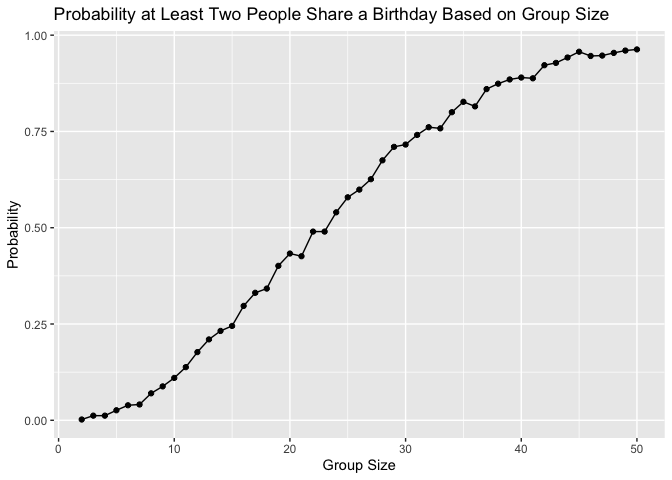
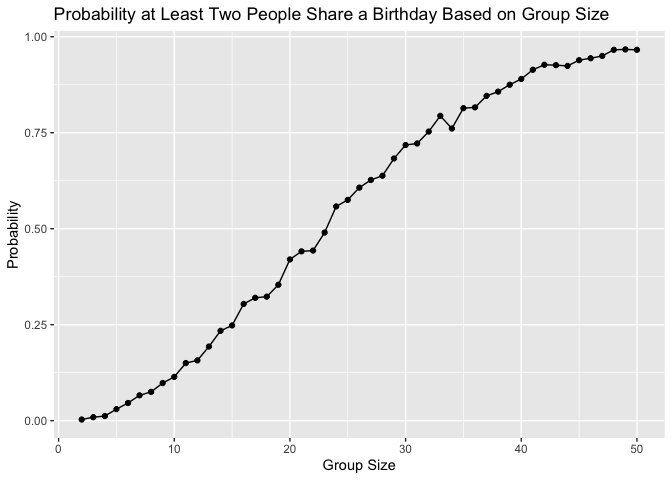
Updated q3

diff --git a/p8105_hw5_jsm2298.md b/p8105_hw5_jsm2298.md
@@ -120,3 +120,46 @@ study_df |>
 ```
 
 ![](p8105_hw5_jsm2298_files/figure-gfm/unnamed-chunk-6-1.png)<!-- -->
+
+## Problem 3
+
+### When designing an experiment or analysis, a common question is whether it is likely that a true effect will be detected – put differently, whether a false null hypothesis will be rejected. The probability that a false null hypothesis is rejected is referred to as power, and it depends on several factors, including: the sample size; the effect size; and the error variance. In this problem, you will conduct a simulation to explore power in a one-sample t-test.
+
+First set the following design elements:
+
+Fix n=30 Fix $\sigma$=5 Set $\mu$=0.
+
+Generate 5000 datasets from the model: $x \sim N(\mu, \sigma)$.
+
+For each dataset, save $\hat{\mu}$ and the p-value from a test of
+$H_0: \mu = 0$, with $\alpha = 0.05$.
+
+Repeat the above for $\mu =\{1,2,3,4,5,6\}$, and complete the following:
+
+``` r
+## Set elements:
+n = 30
+sigma = 5
+mu = 0
+
+sim_normal = function(samp_size){
+  samp = rnorm(samp_size, mu, sigma)
+  return(samp)
+}
+
+## Generate Data:
+sim_data = tibble(
+  samp_size = rep(n, 5000)
+) |> 
+  mutate(
+    repeated = map(samp_size, sim_normal)
+  ) |> 
+  unnest()
+```
+
+    ## Warning: `cols` is now required when using `unnest()`.
+    ## ℹ Please use `cols = c(repeated)`.
+
+### Make a plot showing the proportion of times the null was rejected (the power of the test) on the y axis and the true value of 𝜇 on the x axis. Describe the association between effect size and power.
+
+### Make a plot showing the average estimate of $\hat{\mu}$ on the y axis and the true value of $\mu$ on the x axis. Make a second plot (or overlay on the first) the average estimate of $\hat{\mu}$ only in samples for which the null was rejected on the y axis and the true value of $\mu$ on the x axis. Is the sample average of $\hat{\mu}$ across tests for which the null is rejected approximately equal to the true value of $\mu$? Why or why not?
